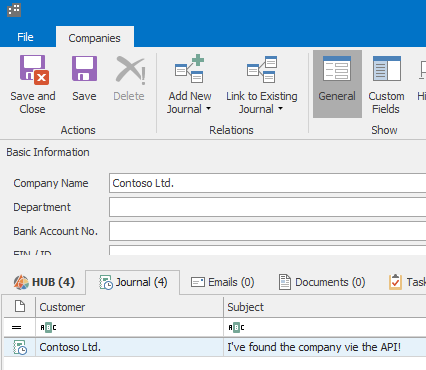
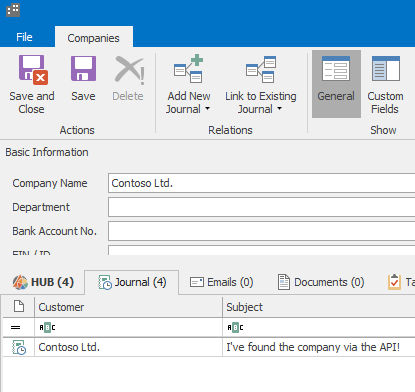
Readme

diff --git a/README.md b/README.md
@@ -37,7 +37,7 @@ if (((JArray)searchedCompaniesResopnse["Data"]).Count != 0)
         transmitObject = new
         {
             Companies_CompanyGuid = ((JArray)searchedCompaniesResopnse["Data"]).First.Value<string>("ItemGUID"),
-            FileAs = "I've found the company vie the API!",
+            FileAs = "I've found the company via the API!",
             Note = "Using the eWay-CRM API C# Library",
             EventStart = DateTime.Now.ToString("u"),
             EventEnd = DateTime.Now.ToString("u")
